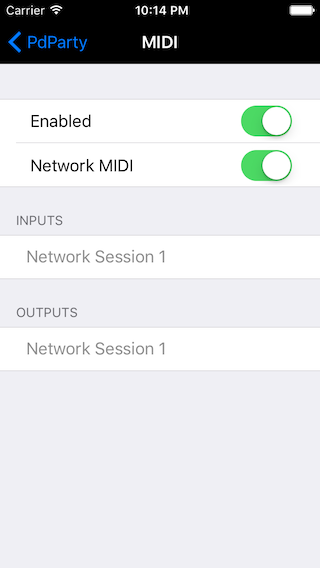
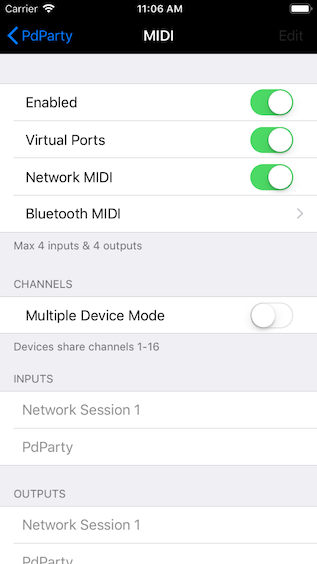
updated guide and changelog

diff --git a/doc/guide/PdParty_User_Guide.md b/doc/guide/PdParty_User_Guide.md
@@ -1,8 +1,8 @@
 PdParty User Guide
 ==================
 
-Version: **1.2.1**  
-Date: 2018-05-##
+Version: **1.2.0**  
+Date: 2018-10-15
 
 PdParty is an iOS app that allows you to run [Pure Data](http://puredata.info/) patches on Apple mobile devices using libpd. It is directly inspired by Chris McCormick's [PdDroidParty](http://droidparty.net/) and the original RjDj app by [Reality Jockey](http://rjdj.me/). It takes a step further by supporting OSC and MIDI and by implementing the native Pd gui objects for a WYSIWYG patch -> mobile device experience:
 
@@ -128,7 +128,7 @@ On iPad, however, RjDJ scenes can be both portrait or landscape:
 
 #### On Screen Controls
 
-Simple on screen controls inspired by the RjDj app are provided to change the audio input level, enable/disable audio dsp, and start/stop recording.
+Simple on screen controls inspired by the RjDj app are provided to change the audio input level, enable/disable audio dsp, start/stop recording, switch output between headset and speakers (iPhone only), restart the scene.
 
 Patches, DroidParty, & PdParty scenes display these controls in a popover activated by the "Controls" nav bar button:
 
@@ -144,15 +144,17 @@ RjDj scenes always have a square background with the controls located below.
 
 Optionally, a button to launch a Console view to display Pd prints for the current patch/scene can be added to the Controls popover. Enable to Console view in the PdParty Settings.
 
+On iPhone, the speaker icon is added to allow for switching the audio output between the headset speaker (quiet) and the speaker-phone speakers (load). This may useful to prevent feedback between input and output in certain scenes. For Rj scenes, this control is added as a switch on the scene's info view.
+
 #### Recording Scene
 
-There is also a special scene for playing back recordings (aka .wav files). The slider now controls the playback volume and there is also a button for looping the playback.
+There is also a special scene for playing back recordings (aka .wav files). There is a button for looping the playback and the slider controls the current playback position.
 
 <p align="center">
 	<img src="https://raw.github.com/danomatika/PdParty/master/doc/guide/screenshots/recording_iPhone.png"/>
 </p>
 
-The cassette background is a placeholder for now. When metadata is added, it will be replaced by the scene icon, etc.
+The cassette background is a placeholder for now. When metadata is added, it may be replaced by the scene icon, etc.
 
 ### OSC Server Settings
 
@@ -160,7 +162,7 @@ The cassette background is a placeholder for now. When metadata is added, it wil
 	<img src="https://raw.github.com/danomatika/PdParty/master/doc/guide/screenshots/osc_settings_iPhone.png"/>
 </p>
 
-Enable the OSC server here and update its settings: ports, host (destination address), etc. The network IP address of the device itself is shown so you know where to send OSC messages to from another device. The server supports both IPv4 and IPv6.
+Enable the OSC server and update its settings: ports, host (destination address), etc. The network IP address of the device itself is shown so you know where to send OSC messages to from another device. The server supports both IPv4 and IPv6.
 
 Send via [multicast](https://en.wikipedia.org/wiki/IP_multicast) by setting a multicast group in the Host field such as "224.0.0.0/24."
 
@@ -170,9 +172,27 @@ Send via [multicast](https://en.wikipedia.org/wiki/IP_multicast) by setting a mu
 	<img src="https://raw.github.com/danomatika/PdParty/master/doc/guide/screenshots/midi_settings_iPhone.png"/>
 </p>
 
-Enable CoreMIDI here and optionally enable Network MIDI with a macOS machine.
+Enable CoreMIDI and optionally enable Virtual MIDI ports and/or Network MIDI with a macOS machine. There is also a convenience menu item to launch Bluetooth MIDI device discovery. Inputs & Outputs are refreshed when a MIDI device is connected or disconnected. PdParty supports a maximum of 4 Inputs and 4 Outputs.
 
-Inputs & Outputs are refreshed when a MIDI device is plugged in/out. Currently, PdParty automatically connects to all detected MIDI devices.
+As of PdParty 1.2.0, there are two MIDI port modes:
+
+* Single (Simple)
+* Multiple
+
+In **Single (Simple) Device Mode**, PdParty automatically connects to all detected MIDI devices. All devices share a single MIDI port aka channels 1-16.
+
+<p align="center">
+	<img src="https://raw.github.com/danomatika/PdParty/master/doc/guide/screenshots/midi_settings_multi_iPhone.png"/>
+</p>
+
+In **Multiple Device Mode**, PdParty mimics the behavior of the Pure Data desktop application and assigns separate MIDI ports to each device:
+
+* Port 1: channels 1-16
+* Port 2: channels 17-32
+* Port 3: channels 33-48
+* Port 4: channels 49-64
+
+Devices can be reordered to set their port number. Simply drag the device within the Input or Output table when **Multiple Device Mode** is enabled.
 
 ### App Settings
 
